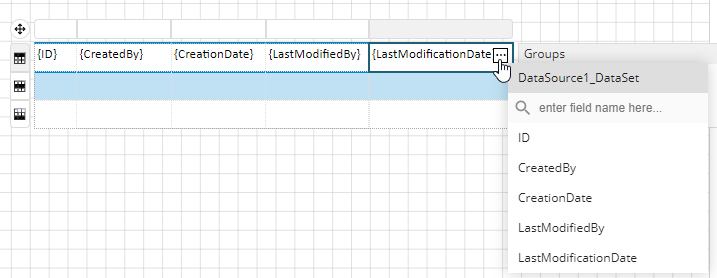
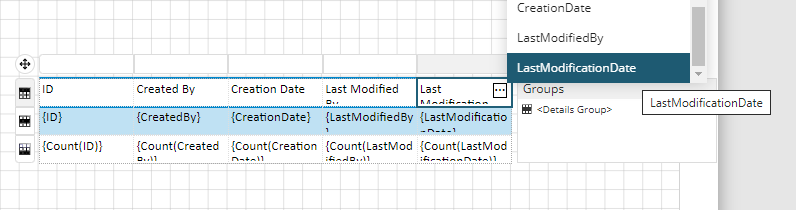
Added content

diff --git a/docs/5-working-with-forguncy-builder/19-Reports/0-Reports.md b/docs/5-working-with-forguncy-builder/19-Reports/0-Reports.md
@@ -12,5 +12,17 @@ has_toc: true
 
 The **Report** feature of **Forguncy** offers a reporting solution to design, customize, publish, and view reports in web applications. 
 
-Forguncy has a function to export page objects to PDF or Excel for display on a web browser. You can use this function to export forms such as quotations, sales slips, etc. However, the main purpose of the page object is to display it on a web browser and hence there is a limitation for form output. By using report objects, it is possible to overcome this challenge. Report objects support more detailed form layouts.
+The report is a statistical analysis tool that can be used to achieve different reports such as weekly sales reports, monthly financial reports, and statistical analysis of the entyerprise data. It allows detailed data display and analysis.
+
+With the **Report** feature, developers can easily build various reports and end users can view these reports directly in the browser, and can also export them as PDF files with one click (which is convenient for printing and filing).
+
+Some of the most commonly used report types built using the Forguncy **Report** feature are:
+
+- Excel forms (financial statements, accounting statements, statistical statements)
+- Word document class (quality inspection report, test result report, irregular table)
+- Dashboard management Kanban (big screen cockpit)
+- Group report, column report, tree structure multi-layer statistical report
+- All kinds of printing documents and reports
+
+<!-- Forguncy has a function to export page objects to PDF or Excel for display on a web browser. You can use this function to export forms such as quotations, sales slips, etc. However, the main purpose of the page object is to display it on a web browser and hence there is a limitation for form output. By using report objects, it is possible to overcome this challenge. Report objects support more detailed form layouts. -->
 

diff --git a/docs/5-working-with-forguncy-builder/19-Reports/1-Create-a-simple-report.md b/docs/5-working-with-forguncy-builder/19-Reports/1-Create-a-simple-report.md
@@ -62,6 +62,17 @@ Selecting a target table will automatically load and display the fields from the
     ![report-edit-table-controls](/assets/images/product-images/report-edit-table-controls.png)
     {:.dropshadow}
 
+    These three lines represent the three functional areas of the table- Header area, Detail area and Footer area.
+
+    The first row represents the table *Header* area, which is used to display the column titles of the table. The column title text can be entered manually, or it can be automatically set as the field name by the system while binding the data field.
+    
+    The second line represents the *Detail* area, which is used to bind and display data. When generating a report, the system will automatically generate multiple rows according to the number of records in the dataset i.e., the total number of rows is equal to the number of records in the dataset.
+    
+    The last row represents the *Footer* area, which is generally used to display information such as totals and report notes. It can be entered manually, or the system can automatically add operation functions while binding the data field. 
+    
+    Note: By default, the *Sum* operation is performed on numeric fields, and the *Count* operation is performed on non-numeric fields.
+    {:.note} 
+
     - Concatenate the data. Select a field from the data source by clicking the three dots to the right of each column in the second row .
 
     ![report-edit-table-concatenate](/assets/images/product-images/report-edit-table-concatenate.png)
